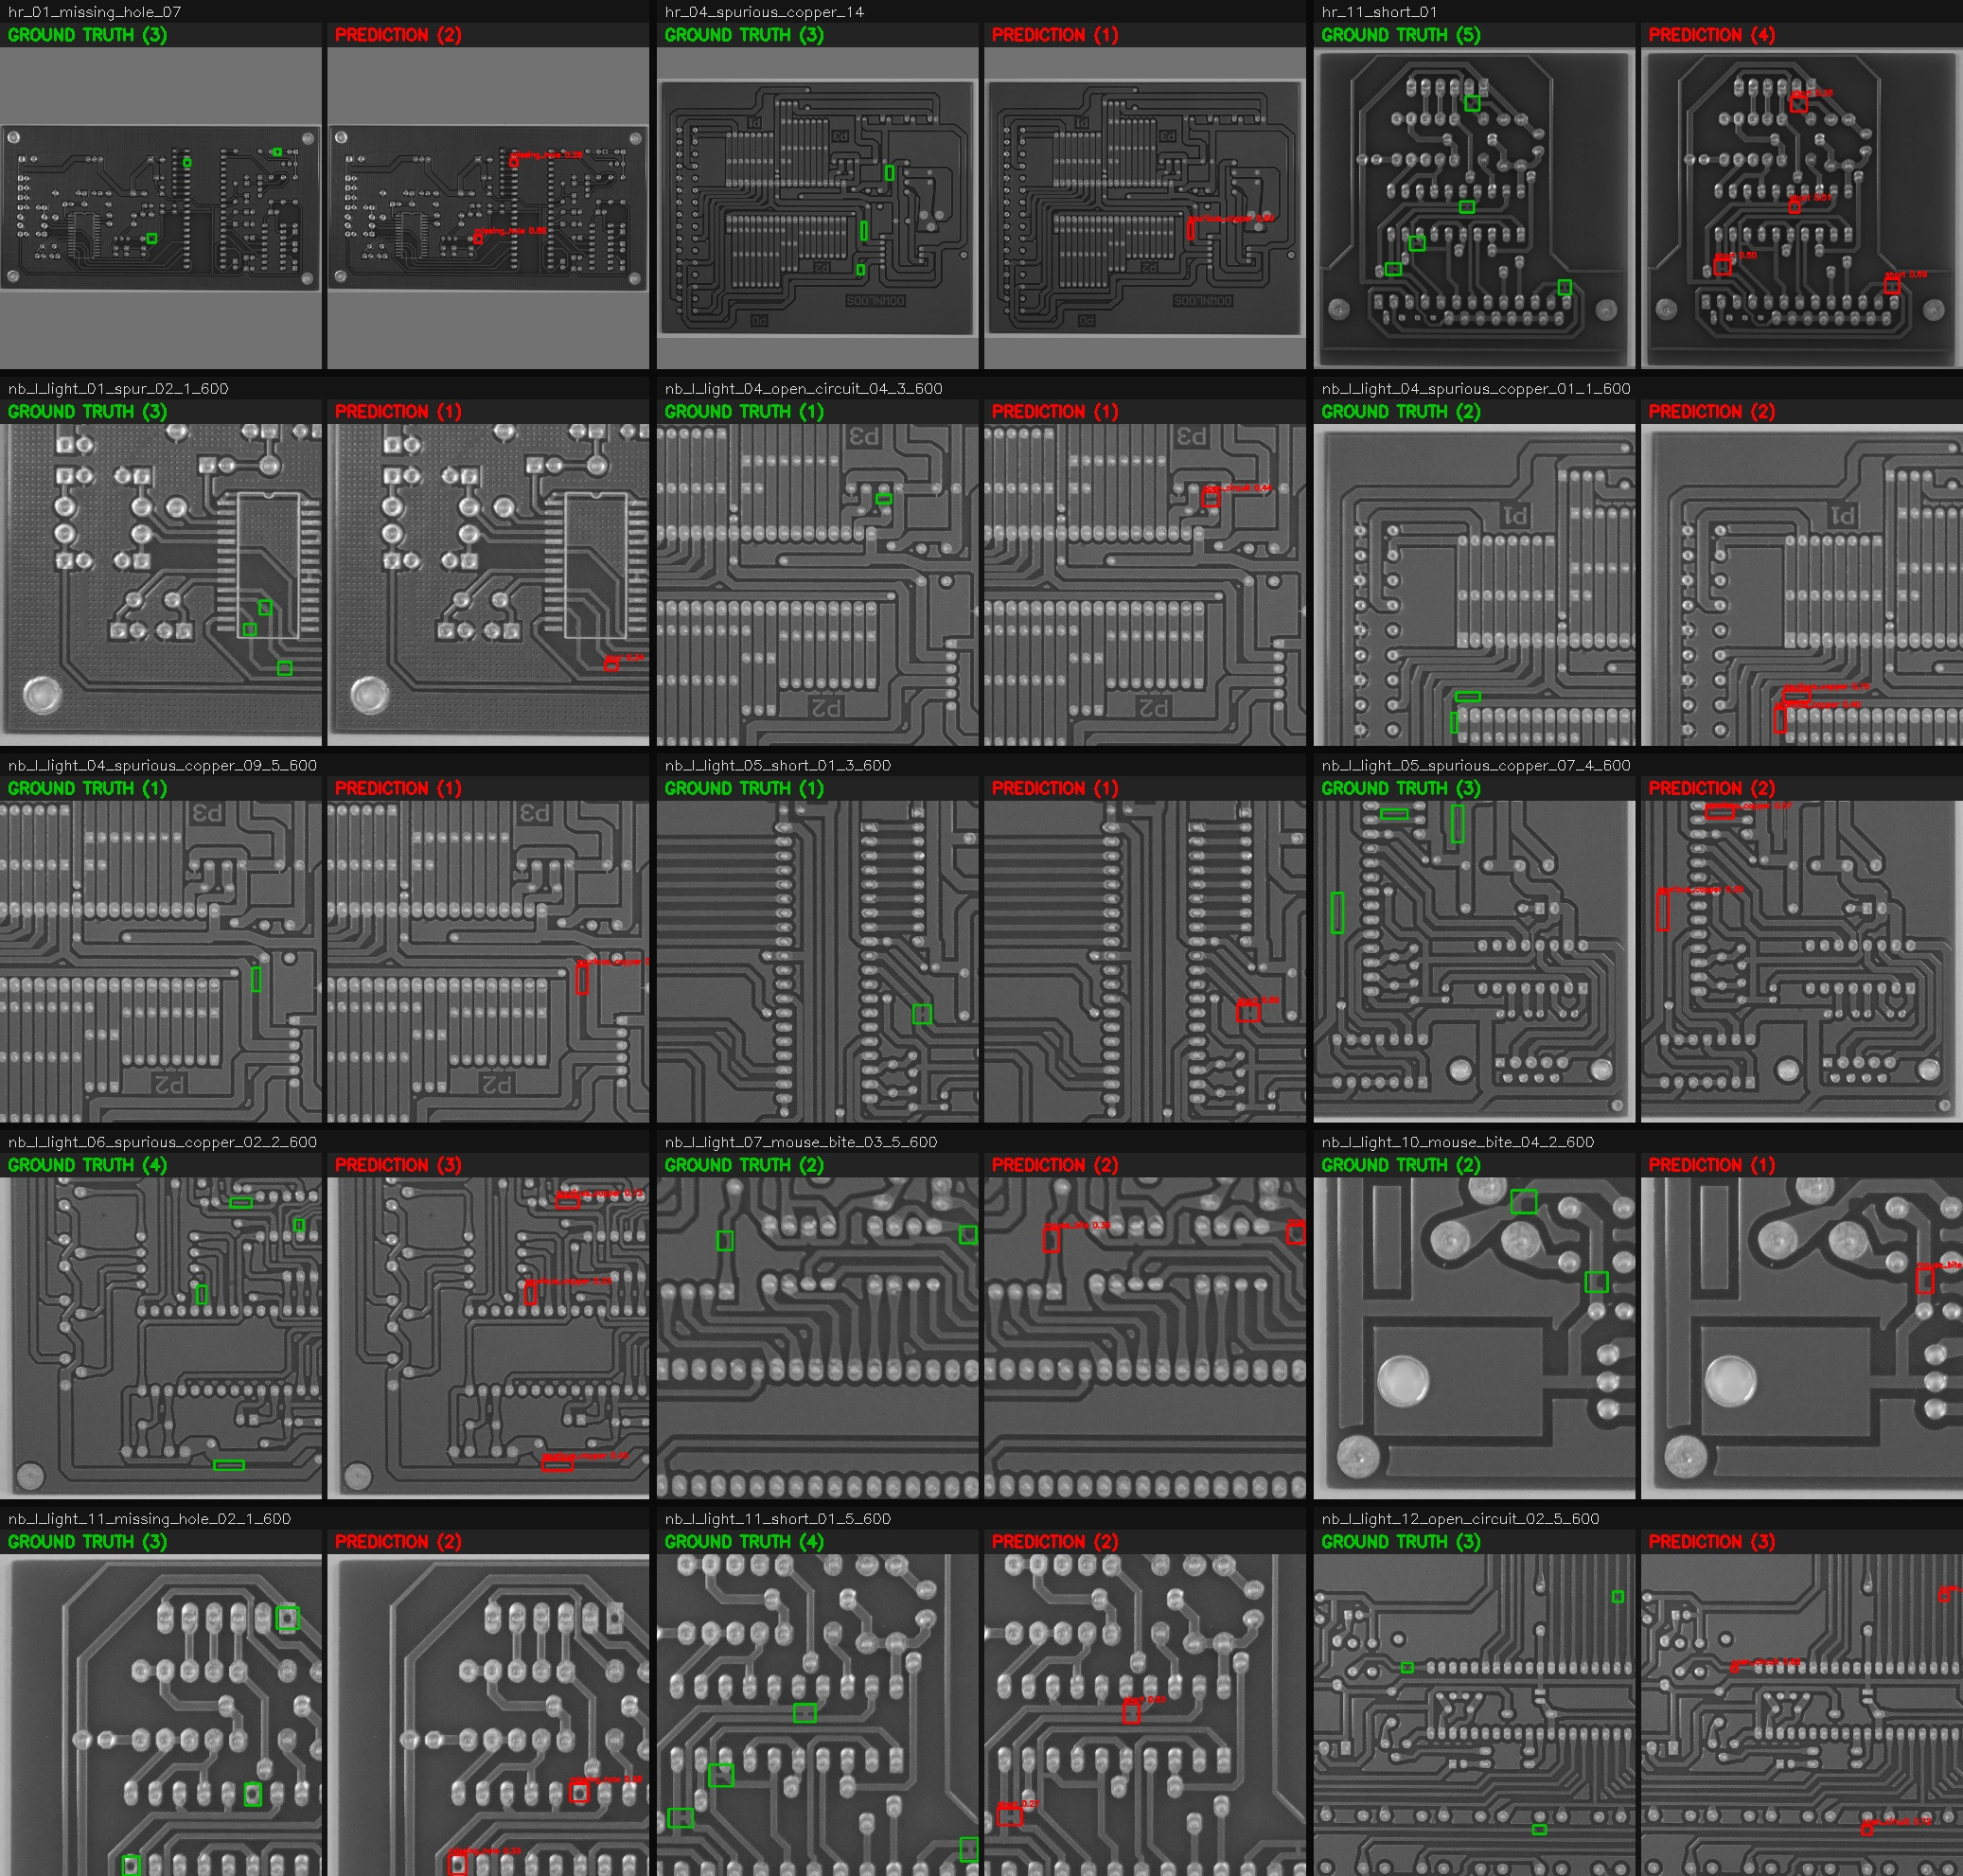
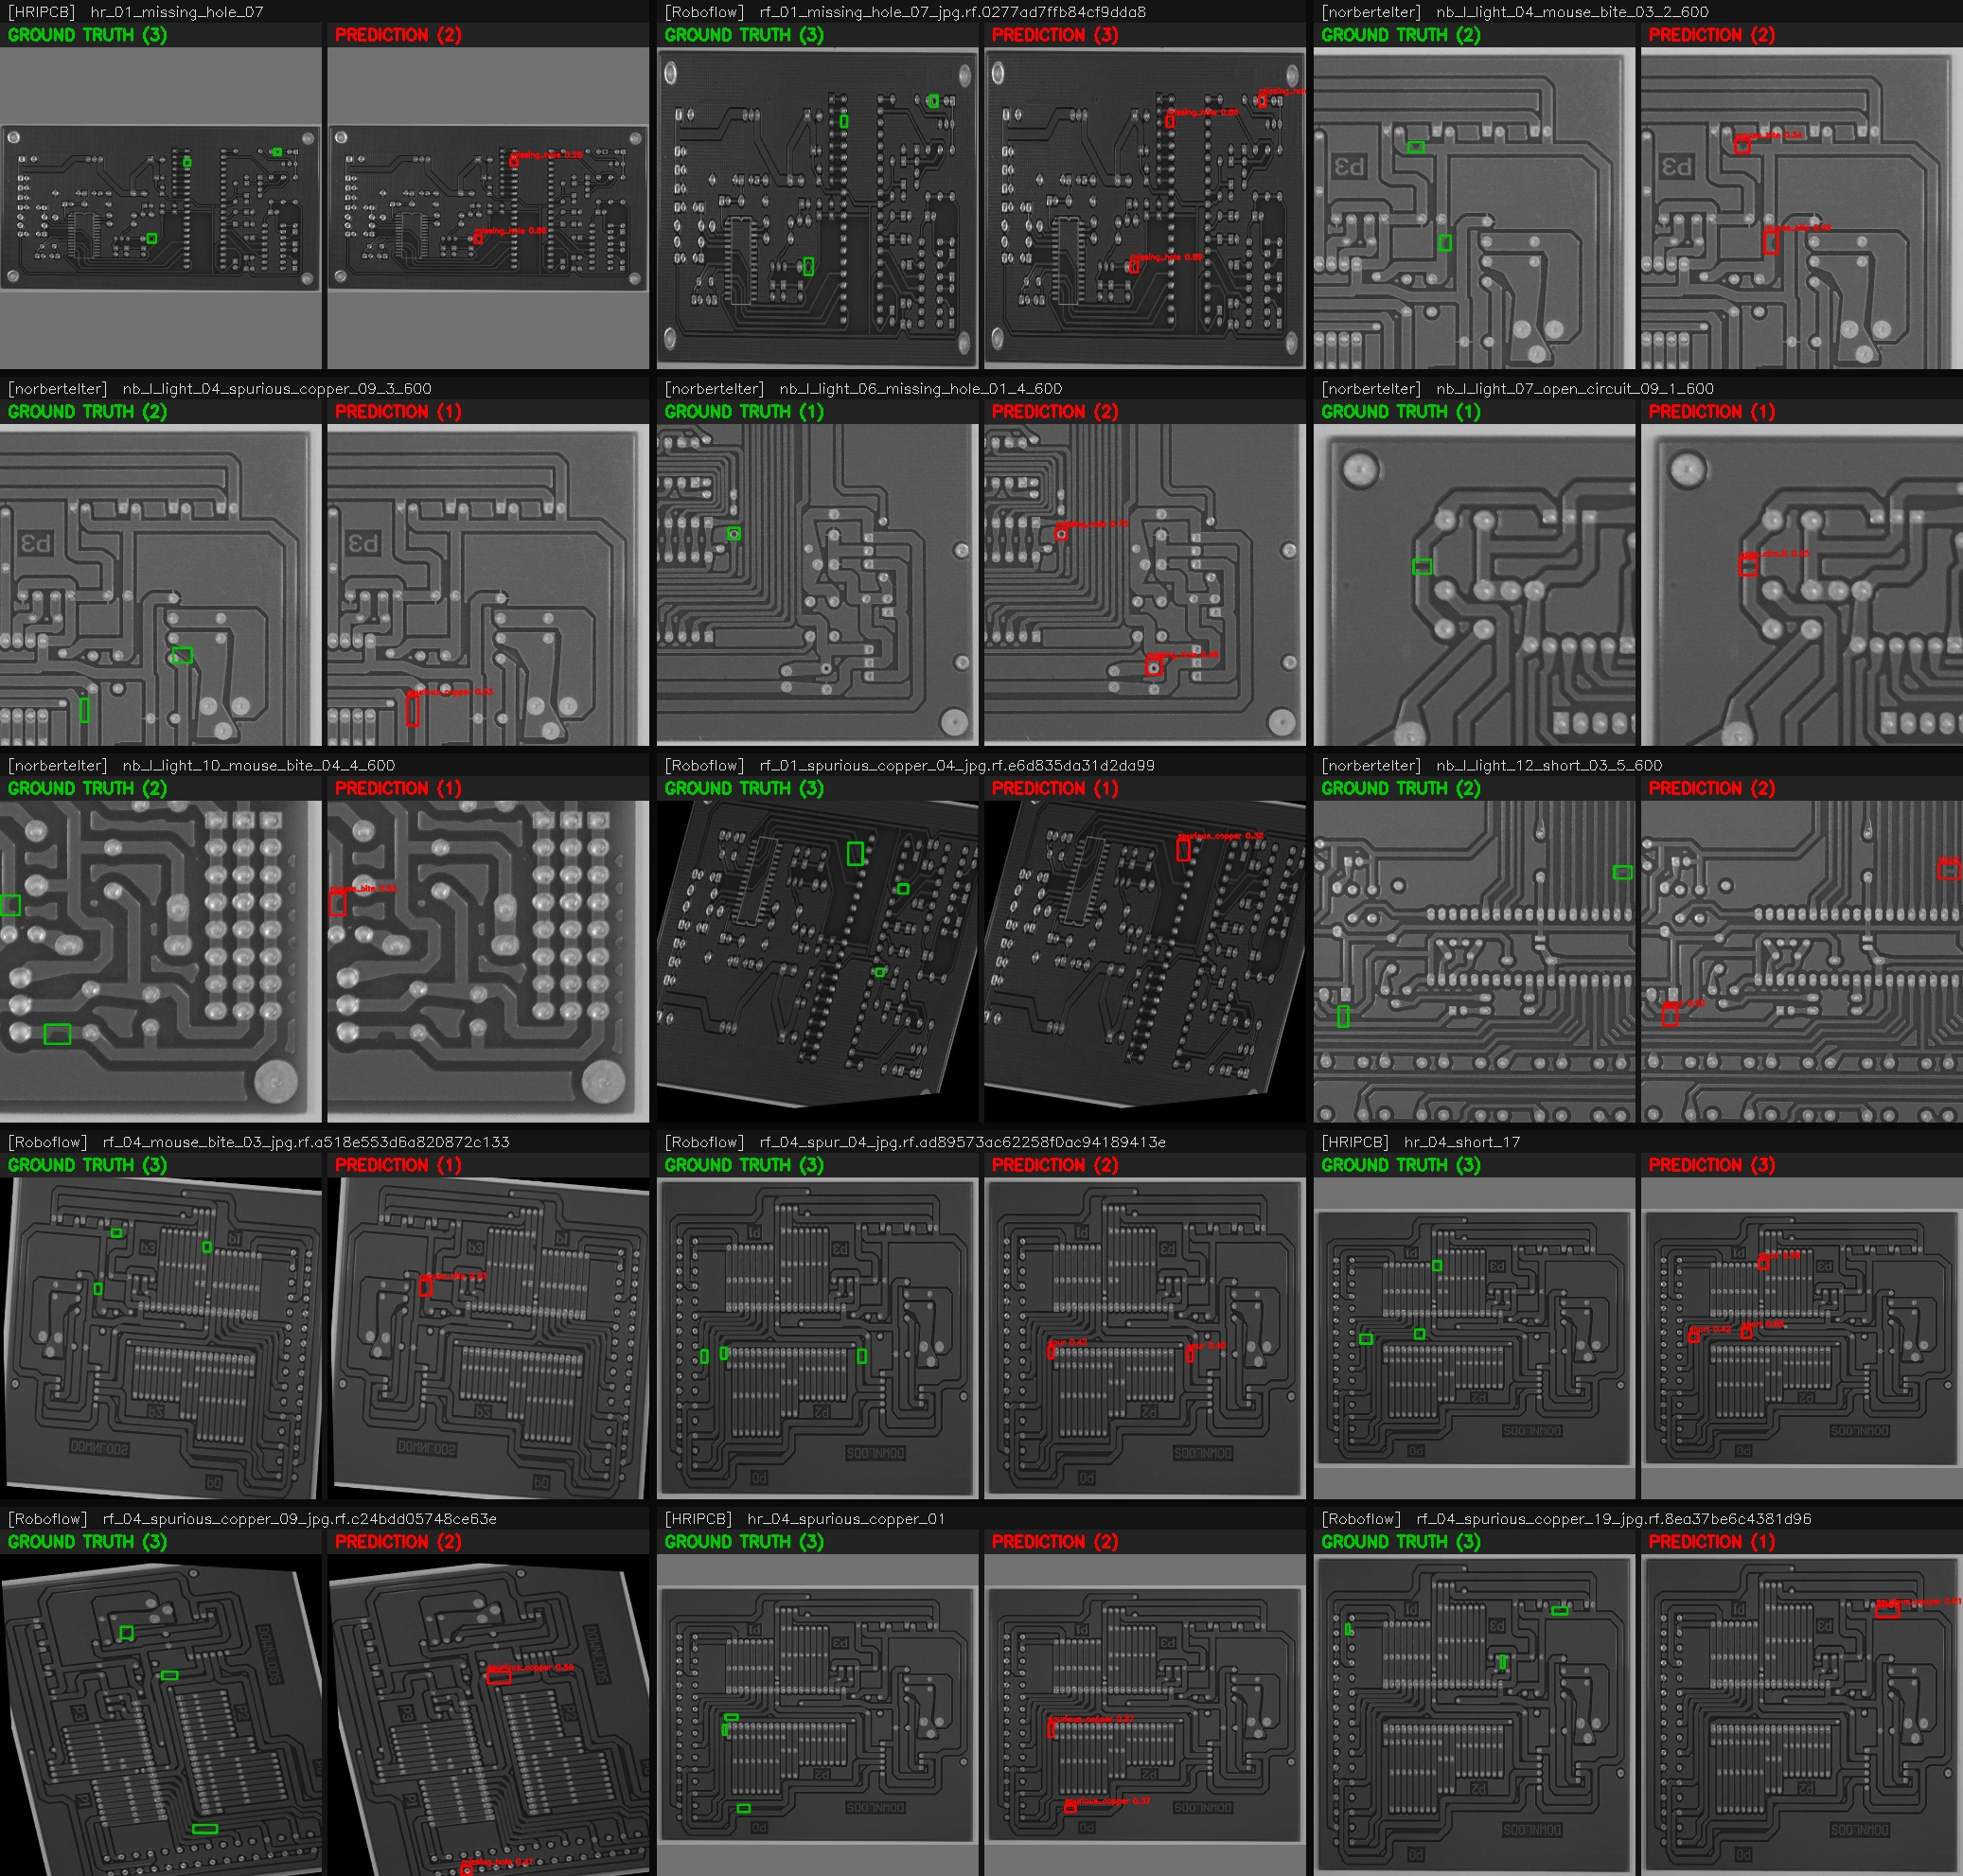
Balance report montage across the 3 source datasets + label each
The montage previously walked images alphabetically and never reached the Roboflow
samples. Now it round-robins across the three merged sources (HRIPCB, norbertelter,
Roboflow) and tags each pair's title bar with its source, so the samples show the model
generalizing across all of them. Update MODEL_REPORT.md caption.

diff --git a/scripts/make_report_samples.py b/scripts/make_report_samples.py
@@ -11,6 +11,7 @@ predictions (RED) on the same image — so you compare "correct" vs "guessed" si
         --out docs/eval_samples.jpg --n 15
 """
 import argparse
+from collections import deque
 from pathlib import Path
 import numpy as np
 import cv2
@@ -25,6 +26,16 @@ from yolo_postprocess import decode_and_nms
 GREEN = (0, 200, 0)
 RED = (0, 0, 255)
 FONT = cv2.FONT_HERSHEY_SIMPLEX
+
+# Source of each image, by filename prefix (the unified PKU set merges 3 datasets).
+SOURCES = [("hr_", "HRIPCB"), ("nb_", "norbertelter"), ("rf_", "Roboflow")]
+
+
+def source_of(stem):
+    for pref, name in SOURCES:
+        if stem.startswith(pref):
+            return name
+    return "other"
 
 
 def caption(img, text, color, h=26):
@@ -63,19 +74,27 @@ def main():
 
     imgs = sorted(p for p in img_dir.iterdir()
                   if p.suffix.lower() in {".png", ".jpg", ".jpeg", ".bmp"})
-    imgs = imgs[:: max(1, len(imgs) // (args.n * 6))]   # spread across the set
 
-    pairs = []
-    for img_path in imgs:
+    # Group by source dataset and spread within each, so the montage balances across
+    # all three merged sources instead of skewing to whichever sorts first.
+    by_src = {}
+    for p in imgs:
+        by_src.setdefault(source_of(p.stem), []).append(p)
+    queues = {}
+    for k, v in by_src.items():
+        queues[k] = deque(v[:: max(1, len(v) // (args.n * 2))])
+    order = [name for _, name in SOURCES if name in queues] + \
+            [k for k in queues if k not in {n for _, n in SOURCES}]
+
+    def build_pair(img_path):
         gts = load_gt(lbl_dir / f"{img_path.stem}.txt", 1, 1)   # normalized coords
         if not gts:
-            continue
+            return None
         inp, vis, (h0, w0) = preprocess(img_path, args.size)
         dets = decode_and_nms([compiled(inp)[o] for o in compiled.outputs],
                               w0, h0, args.score, args.iou) if raw_ir else []
         if not dets:                       # prefer images where the model fired
-            continue
-
+            return None
         gt_img, pred_img = vis.copy(), vis.copy()
         for c, gx1, gy1, gx2, gy2 in gts:
             cv2.rectangle(gt_img, (int(gx1 * w0), int(gy1 * h0)),
@@ -84,15 +103,28 @@ def main():
             cv2.rectangle(pred_img, (x1, y1), (x2, y2), RED, args.thick)
             cv2.putText(pred_img, f"{classes[c]} {s:.2f}", (x1, max(14, y1 - 4)),
                         FONT, 0.5, RED, 2)
-
         cell = args.cell
         left = caption(cv2.resize(gt_img, (cell, cell)), f"GROUND TRUTH ({len(gts)})", GREEN)
         right = caption(cv2.resize(pred_img, (cell, cell)), f"PREDICTION ({len(dets)})", RED)
         sep = np.full((left.shape[0], 6, 3), 20, np.uint8)
         pair = np.hstack([left, sep, right])
-        pair = np.vstack([name_bar(pair.shape[1], img_path.stem[:60]), pair])
-        pairs.append(pair)
-        if len(pairs) >= args.n:
+        return np.vstack([name_bar(pair.shape[1],
+                          f"[{source_of(img_path.stem)}]  {img_path.stem[:48]}"), pair])
+
+    # round-robin across sources until we have n pairs
+    pairs = []
+    while len(pairs) < args.n and any(queues[k] for k in order):
+        progressed = False
+        for k in order:
+            if not queues[k]:
+                continue
+            pair = build_pair(queues[k].popleft())
+            progressed = True
+            if pair is not None:
+                pairs.append(pair)
+                if len(pairs) >= args.n:
+                    break
+        if not progressed:
             break
 
     if not pairs:

diff --git a/MODEL_REPORT.md b/MODEL_REPORT.md
@@ -53,7 +53,12 @@ boxes = correct defect locations); the **right** panel shows the **model's predi
 the left with no matching red box on the right is a **missed defect**; a red box with no
 green counterpart is a **false positive**.
 
-![Sample predictions — left: ground truth (green), right: model prediction (red)](docs/eval_samples.jpg)
+All samples are from the **held-out test set** (boards never seen in training, in any
+augmentation), and are **balanced across the three merged source datasets** — each panel's
+title bar is tagged `[HRIPCB]`, `[norbertelter]`, or `[Roboflow]` so you can see the model
+generalizing across sources (the Roboflow boards even look visually distinct).
+
+![Sample predictions — left: ground truth (green), right: model prediction (red); balanced across sources](docs/eval_samples.jpg)
 
 Regenerate with:
 ```bash